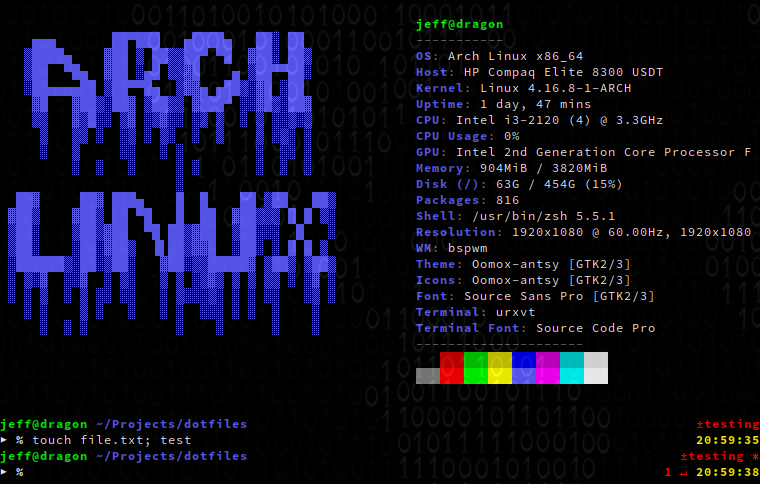
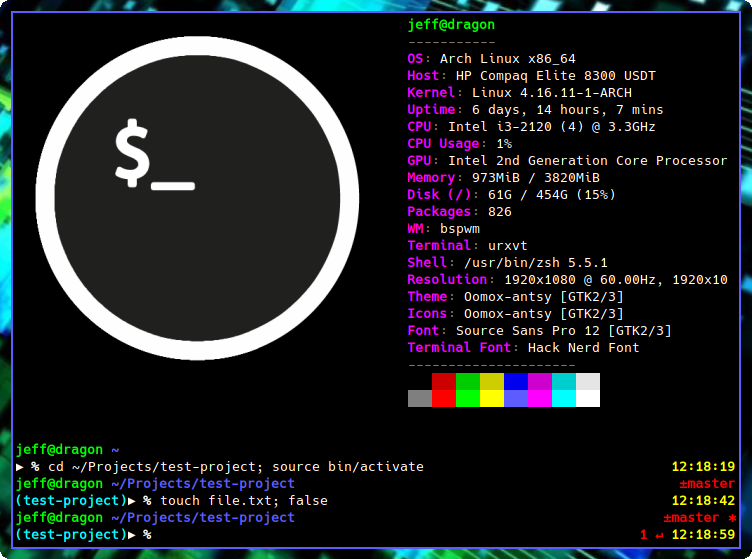
Update README and screenshot

diff --git a/README.md b/README.md
@@ -1,19 +1,5 @@
 # dotfiles 
-- bspwm
-- polybar
-- rofi
-- dunst
-- Xresources
-- qutebrowser
-- rxvt-unicode
-- oh-my-zsh
-- neomutt
-- ncmpcpp
-- vim
-- vifm
-- weechat
-- irssi
-- zathura
-- rtv
+
+Mmm. Terminals...
 
 ![Terminal](terminal.png "Terminal")
